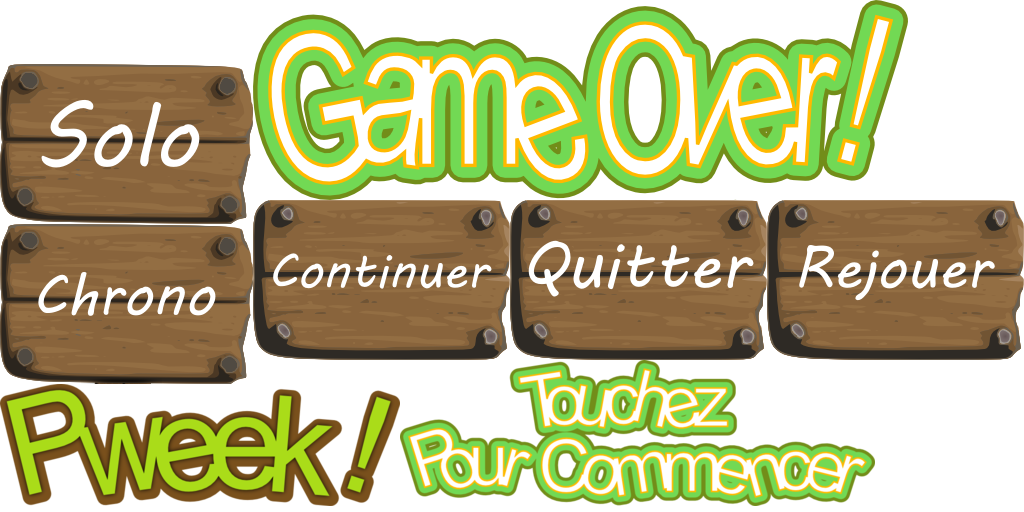
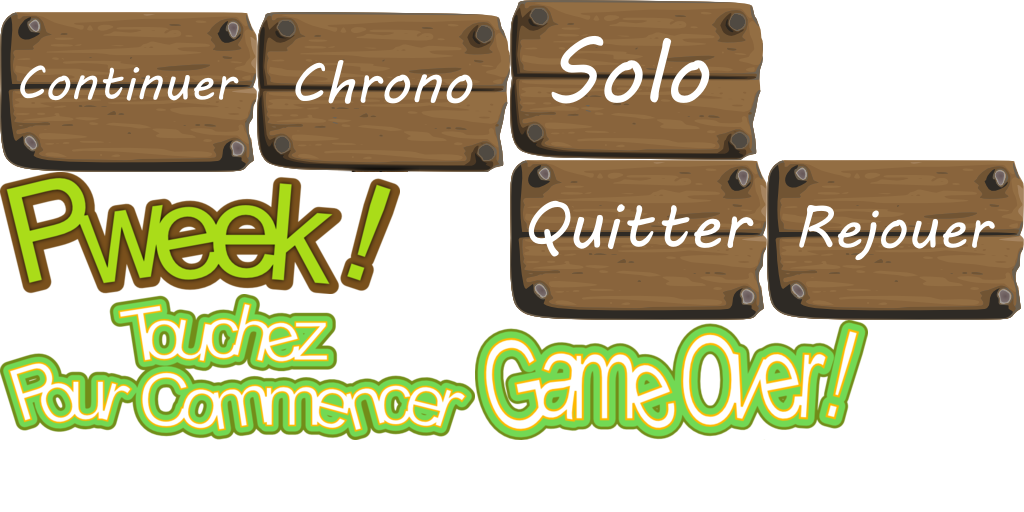
Placement game over.

diff --git a/pweekmini/src/com/tacoid/pweekmini/actors/GameOverActor.java b/pweekmini/src/com/tacoid/pweekmini/actors/GameOverActor.java
@@ -14,7 +14,6 @@ import com.badlogic.gdx.scenes.scene2d.utils.TextureRegionDrawable;
 import com.tacoid.pweek.I18nManager;
 import com.tacoid.pweek.ScoreManager;
 import com.tacoid.pweek.SoundPlayer;
-import com.tacoid.pweek.Pweek.ScreenOrientation;
 import com.tacoid.pweek.ScoreManager.GameType;
 import com.tacoid.pweek.SoundPlayer.SoundType;
 import com.tacoid.pweek.screens.GameScreen;
@@ -82,6 +81,7 @@ public class GameOverActor extends Group {
 	private Sprite scorePanelSprite;
 	private GameScreen gameScreen;
 	private SwingMenu menu;
+	private float x, y;
 
 	private int highScore = 0;
 	private boolean newHighScore = false;
@@ -91,6 +91,8 @@ public class GameOverActor extends Group {
 	private I18nManager i18n;
 
 	public GameOverActor(TextureAtlas atlasPlank, TextureAtlas atlasPanels, BitmapFont font, GameScreen gs, float x, float y) {
+		this.x = x;
+		this.y = y;
 		gameScreen = gs;
 
 		i18n = I18nManager.getInstance();
@@ -109,16 +111,12 @@ public class GameOverActor extends Group {
 
 		this.addActor(menu);
 
-		gameOverSprite.setPosition(x-gameOverSprite.getWidth()/2, y-gameOverSprite.getHeight()/2);
+		gameOverSprite.setPosition(x-gameOverSprite.getWidth()/2, y);
 
-		if(gameScreen.getOrientation() == ScreenOrientation.LANDSCAPE) {
-			scorePanelSprite.setPosition(x - scorePanelSprite.getWidth() / 2, 450);
-		} else {
-			scorePanelSprite.setPosition(x - scorePanelSprite.getWidth() / 2, 470);
-		}
+		scorePanelSprite.setPosition(x - scorePanelSprite.getWidth() / 2, y - scorePanelSprite.getHeight() - 20);
 
 		this.font = font;
-		font.setScale(0.8f);
+		font.setScale(1f);
 
 		this.hide();
 		this.setVisible(true);
@@ -138,11 +136,7 @@ public class GameOverActor extends Group {
 		PweekMini.getInstance().getHandler().showAds(true);
 
 		/* TRACKING */
-		if(gameScreen.getGameType() == GameType.VERSUS_IA) {
-			TrackingManager.getTracker().trackEvent("gameplay", "game_over", gameScreen.getGameType().toString()+"_"+gameScreen.getLevel()+"_"+type.toString(), (long) gameScreen.getElapsedTime());
-		} else {
-			TrackingManager.getTracker().trackEvent("gameplay", "game_over", gameScreen.getGameType().toString()+"_"+type.toString(), (long) gameScreen.getElapsedTime());
-		}
+		TrackingManager.getTracker().trackEvent("gameplay", "game_over", gameScreen.getGameType().toString()+"_"+type.toString(), (long) gameScreen.getElapsedTime());
 	}
 
 	public void hide() {
@@ -151,28 +145,20 @@ public class GameOverActor extends Group {
 	}
 
 	public void draw(SpriteBatch batch, float arg1) {
-		float x=0,y=0;
 		String message;
 		super.draw(batch,arg1);
-		if(gameScreen.getOrientation() == ScreenOrientation.LANDSCAPE) {
-			x = 640;
-			y = 500;
-		} else {
-			x = 384;
-			y = 558;
-		}
+
 		scorePanelSprite.draw(batch);
 		font.setScale(0.8f);
 		font.setColor(1f, 1f, 1f, 1f);
 		message =  i18n.getString("score") + String.valueOf(gameScreen.getScore());
-		font.draw(batch, message, x-font.getBounds(message).width/2,y);
-		if(newHighScore) {
+		font.draw(batch, message, x / 2 - font.getBounds(message).width / 2, y - scorePanelSprite.getHeight() / 2 - 10);
+		if (newHighScore) {
 			message = i18n.getString("nouveau_record");
-			font.draw(batch, i18n.getString("nouveau_record"), x-font.getBounds(message).width/2, y - 30f);
-		}
-		else {
+			font.draw(batch, i18n.getString("nouveau_record"), 3 * x / 2 - font.getBounds(message).width/2, y - scorePanelSprite.getHeight() / 2 - 10);
+		} else {
 			message = i18n.getString("record") + String.valueOf(highScore);
-			font.draw(batch, i18n.getString("record") + String.valueOf(highScore), x-font.getBounds(message).width/2,y-30f);
+			font.draw(batch, i18n.getString("record") + String.valueOf(highScore), 3 * x / 2 - font.getBounds(message).width/2, y - scorePanelSprite.getHeight() / 2 - 10);
 		}
 
 		gameOverSprite.draw(batch);

diff --git a/pweekmini/src/com/tacoid/pweekmini/screens/GameScreenPortrait.java b/pweekmini/src/com/tacoid/pweekmini/screens/GameScreenPortrait.java
@@ -118,7 +118,7 @@ public abstract class GameScreenPortrait implements GameScreen {
 		if (gameOver != null) {
 			show = gameOver.isVisible();
 		}
-		gameOver = new GameOverActor(PweekMini.getInstance().atlasPlank, PweekMini.getInstance().atlasPanelsPortrait, PweekMini.getInstance().manager.get("images/font_score.fnt", BitmapFont.class), this, VIRTUAL_WIDTH/2, 3*VIRTUAL_HEIGHT/5);
+		gameOver = new GameOverActor(PweekMini.getInstance().atlasPlank, PweekMini.getInstance().atlasPanelsPortrait, PweekMini.getInstance().manager.get("images/font_score.fnt", BitmapFont.class), this, VIRTUAL_WIDTH/2, 2*VIRTUAL_HEIGHT/3);
 		stage.addActor(gameOver);
 		if (show) {
 			gameOver();
